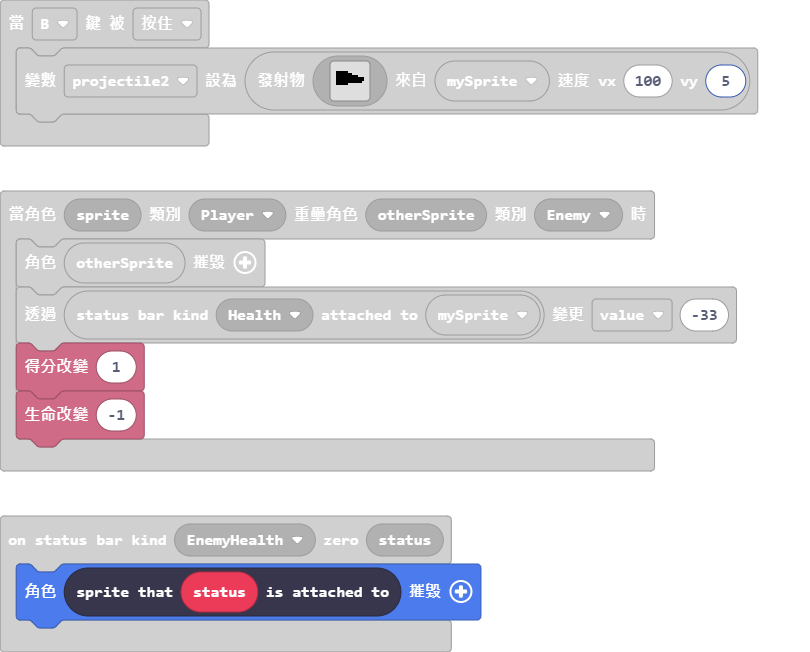
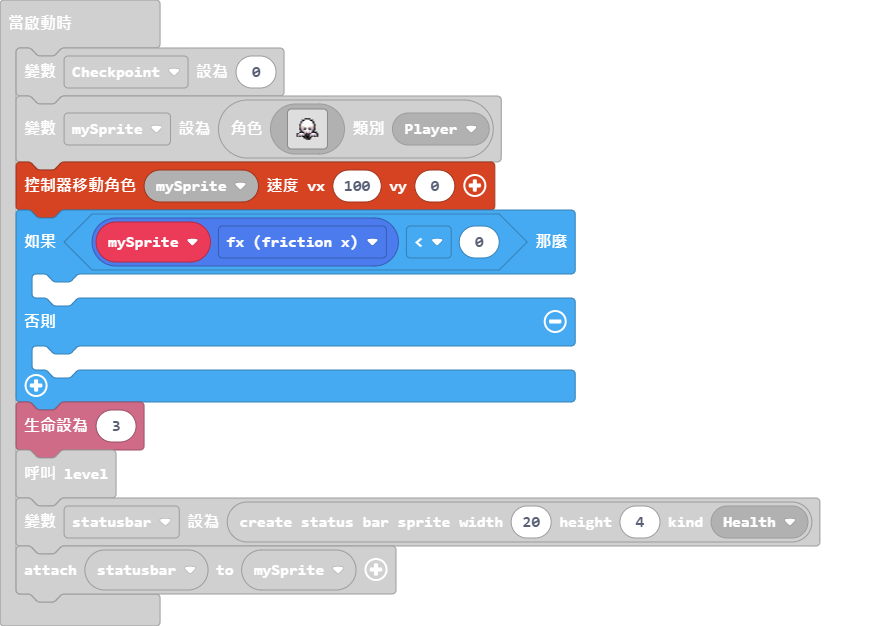
更新 main.blocks, main.ts

diff --git a/main.ts b/main.ts
@@ -146,6 +146,11 @@ mySprite = sprites.create(img`
     ........................
     `, SpriteKind.Player)
 controller.moveSprite(mySprite, 100, 0)
+if (mySprite.fx < 0) {
+	
+} else {
+	
+}
 info.setLife(3)
 level()
 statusbar = statusbars.create(20, 4, StatusBarKind.Health)
